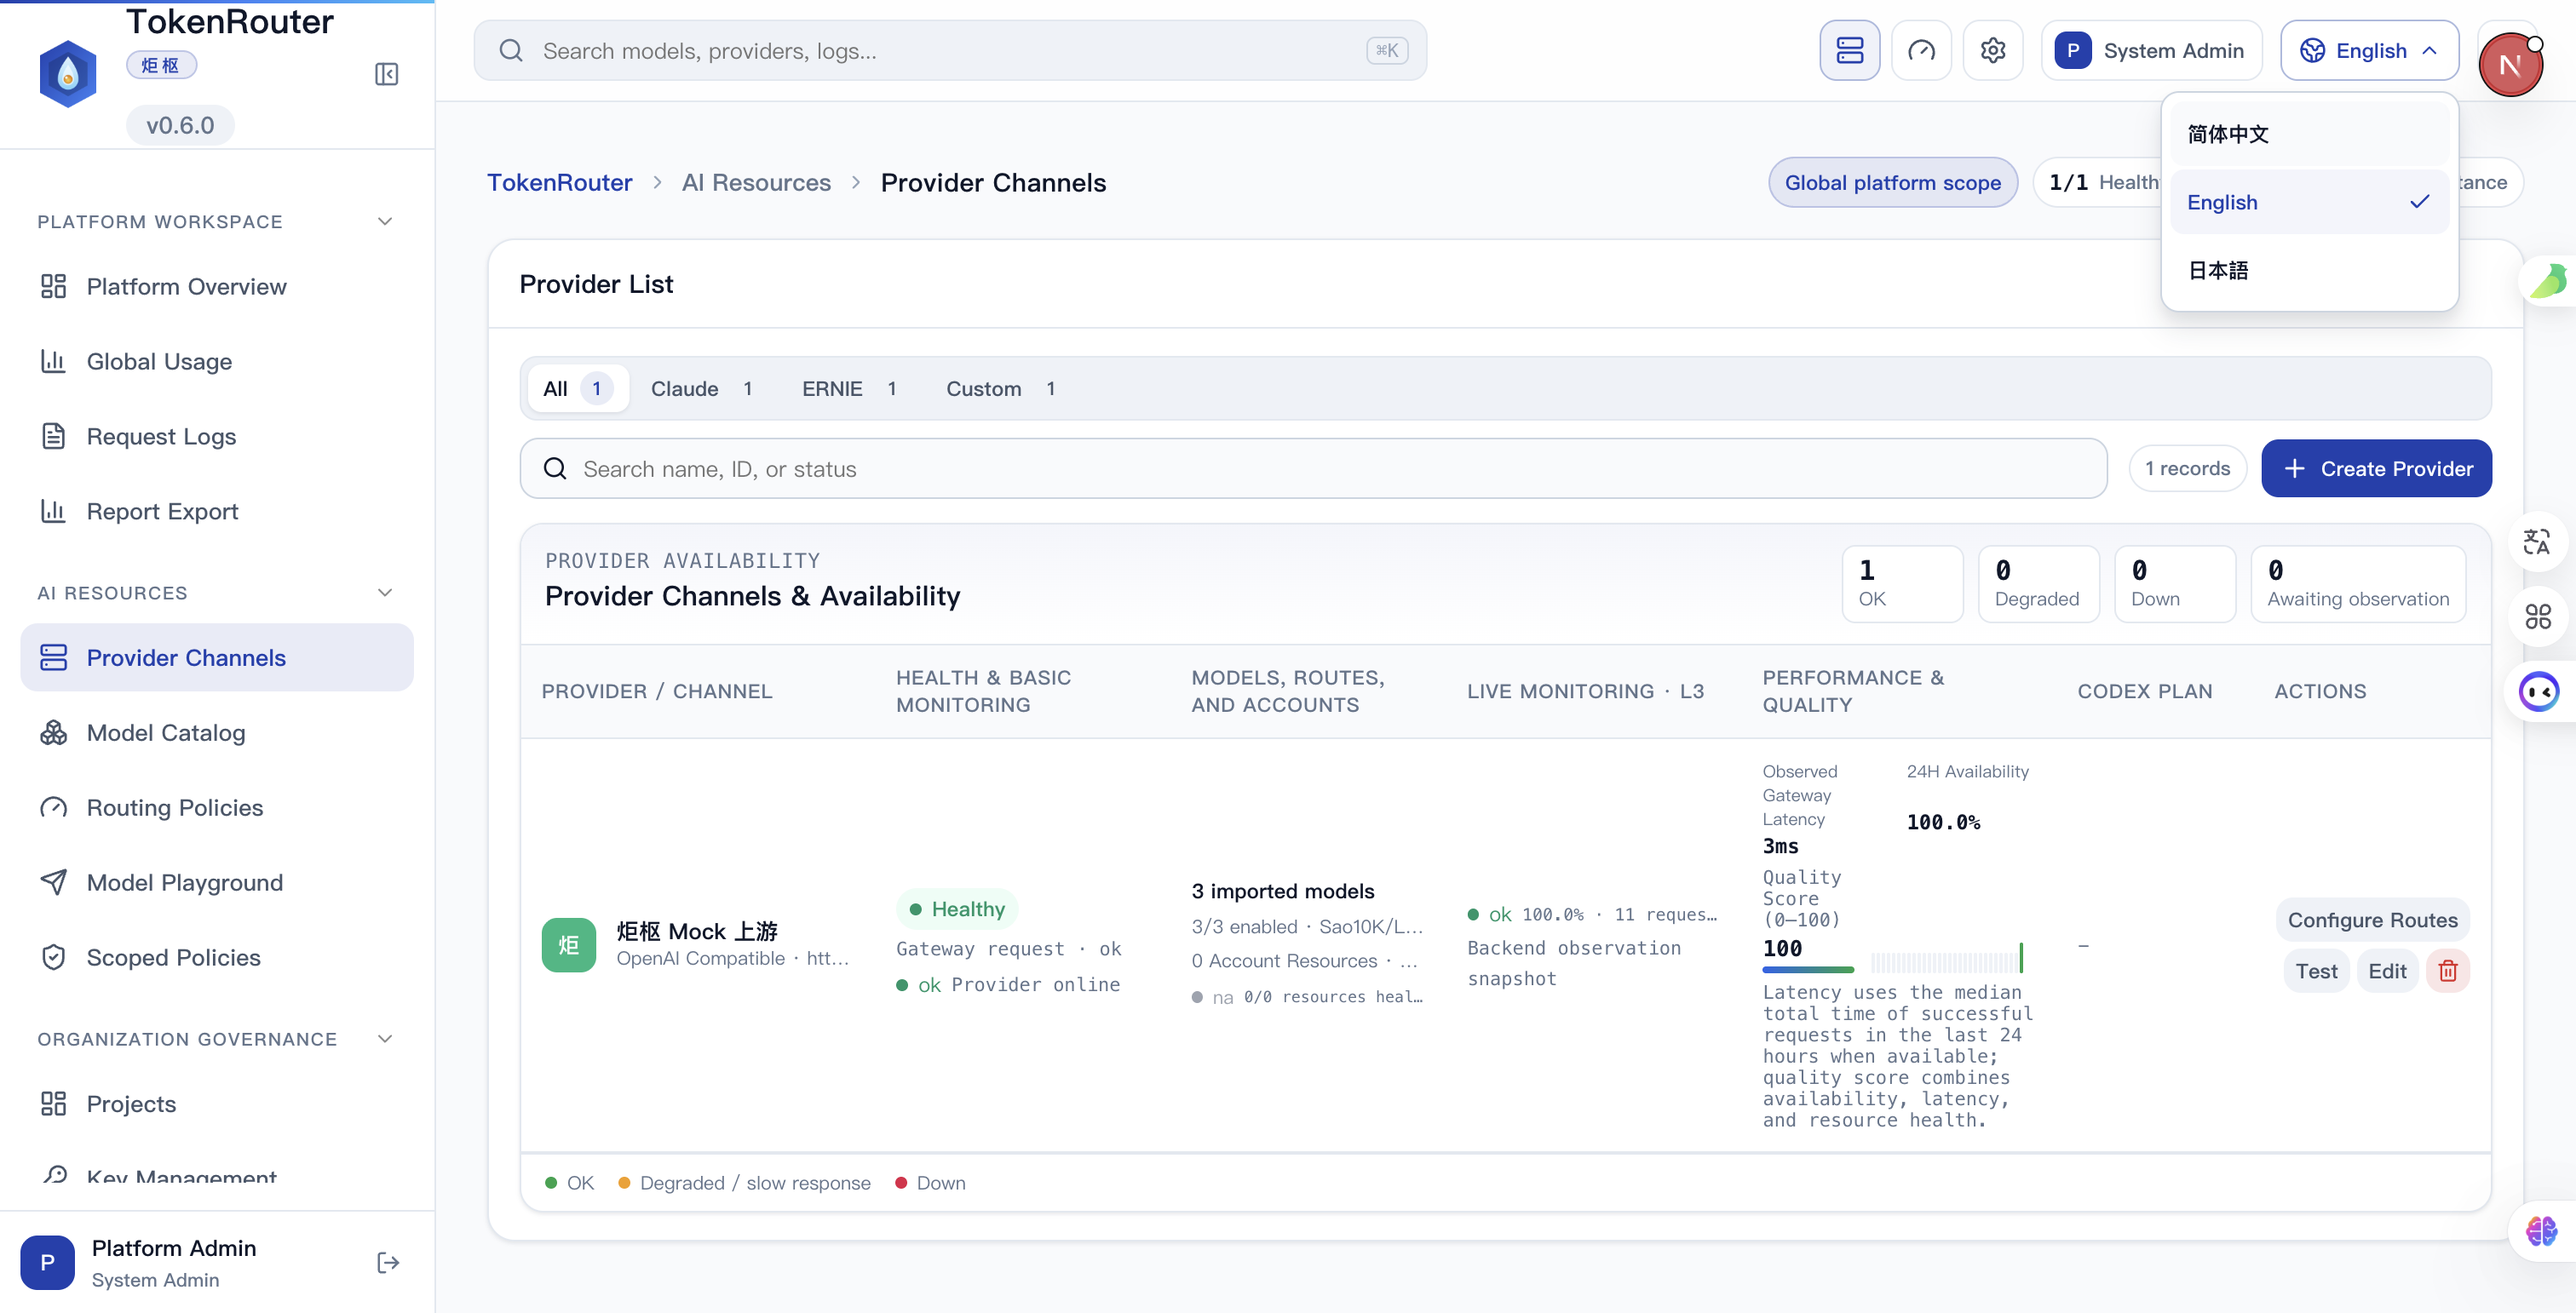
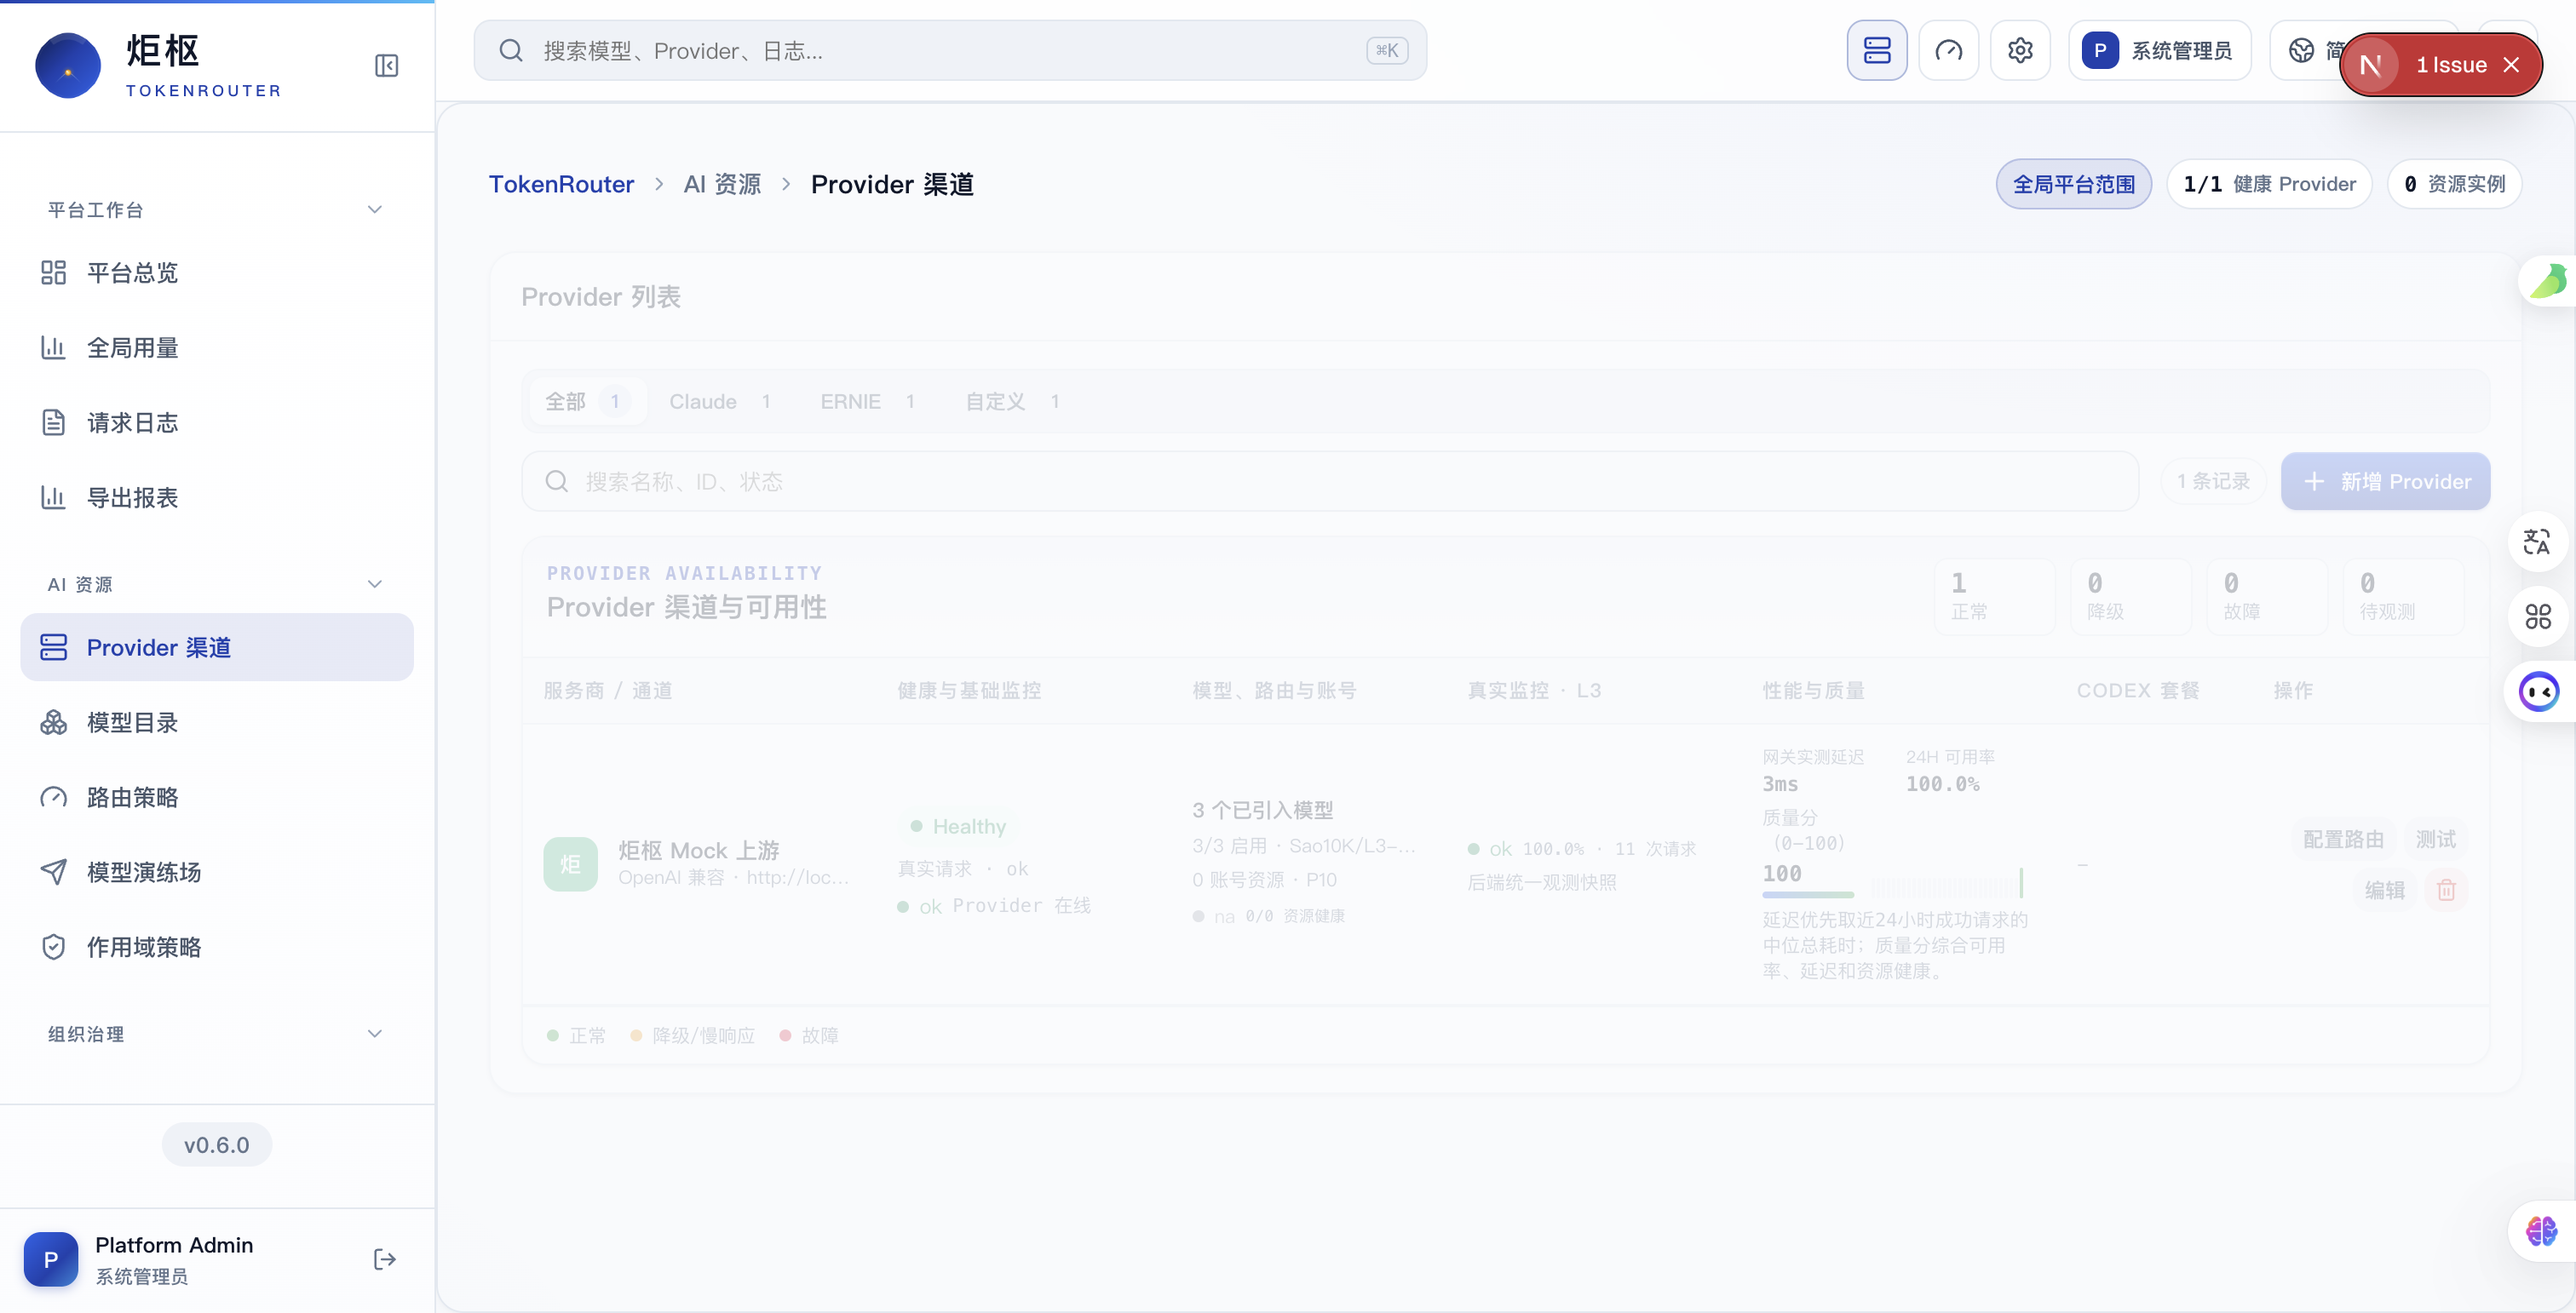
SaaS-style global design language overhaul
- 内容区氛围光：双 radial-gradient 极淡品牌微光（右上蓝/左下青），SaaS 层次感
- 侧边栏：微妙白→灰渐变；分组标题 uppercase 10.5px 宽字距；导航图标 hover/active 品牌蓝过渡
- 按钮：主按钮渐变(#2563EB→#1E40AF)+内高光+品牌阴影+hover 抬升；次按钮圆角+微阴影
- 内容面板：16px 圆角+细边框+分层柔和阴影
- 头像：品牌渐变+投影；眉标统一品牌蓝小字
- 滚动条：9px 细条圆角 background-clip；键盘焦点品牌色光环
- 表格：表头主题化+行 hover 淡蓝；状态胶囊 color-mix 主题化（修 dark 模式硬编码）
- 实测：ambient/渐变/uppercase/16px/渐变按钮全部生效，门禁全绿

diff --git a/frontend/app/styles/redesign/tokenrouter.css b/frontend/app/styles/redesign/tokenrouter.css
@@ -757,3 +757,203 @@
   font-size: 11px;
   color: var(--ink-2);
 }
+
+/* ============================================================
+   SaaS 站点风格全局覆盖（TokenRouter 炬枢）
+   ============================================================ */
+
+/* 1. 内容区氛围光：极淡品牌渐变微光，SaaS 标志性层次 */
+.app-shell {
+  background:
+    radial-gradient(1100px 520px at 88% -8%, rgba(37, 99, 235, 0.05), transparent 62%),
+    radial-gradient(900px 420px at -8% 108%, rgba(14, 165, 233, 0.045), transparent 55%),
+    var(--bg);
+}
+
+/* 2. 侧边栏：微妙渐变 + 精致导航 */
+.sidebar {
+  background: linear-gradient(180deg, var(--surface) 0%, #fbfcfe 100%);
+}
+
+.nav-title {
+  color: var(--ink-3);
+  font-size: 10.5px;
+  font-weight: 720;
+  letter-spacing: 0.09em;
+  text-transform: uppercase;
+  min-height: 28px;
+  padding: 8px 16px 2px;
+}
+
+.nav-title:hover {
+  background: transparent;
+  color: var(--ink-2);
+}
+
+.nav-title .nav-chevron {
+  color: var(--ink-4);
+}
+
+.nav-item svg,
+.nav-child svg {
+  color: var(--ink-3);
+  transition: color 150ms ease;
+}
+
+.nav-item:hover svg,
+.nav-child:hover svg {
+  color: var(--ink-2);
+}
+
+.nav-item.active svg,
+.nav-item.active-parent > svg,
+.nav-child.active svg {
+  color: var(--accent);
+}
+
+.nav-item.active {
+  color: var(--accent);
+}
+
+.sidebar-account {
+  border-top-color: var(--border);
+  padding: 12px 14px 14px;
+}
+
+.account-avatar {
+  background: linear-gradient(135deg, #2563eb 0%, #1e40af 60%, #38bdf8 130%);
+  box-shadow: 0 2px 6px rgba(30, 64, 175, 0.28);
+  font-weight: 700;
+}
+
+.account-meta strong {
+  font-size: 12.5px;
+}
+
+/* 3. 按钮系统：渐变主按钮 + 柔和次按钮 */
+.button {
+  border-radius: 9px;
+  background: linear-gradient(180deg, #2563eb 0%, #1e40af 100%);
+  box-shadow:
+    0 1px 2px rgba(30, 64, 175, 0.32),
+    inset 0 1px 0 rgba(255, 255, 255, 0.16);
+  font-weight: 650;
+  letter-spacing: 0.01em;
+  transition:
+    transform 150ms ease,
+    box-shadow 150ms ease,
+    filter 150ms ease;
+}
+
+.button:hover {
+  transform: translateY(-1px);
+  box-shadow:
+    0 5px 14px rgba(30, 64, 175, 0.28),
+    inset 0 1px 0 rgba(255, 255, 255, 0.16);
+  filter: brightness(1.04);
+}
+
+.button:active {
+  transform: translateY(0);
+  filter: brightness(0.96);
+}
+
+.secondary-button {
+  border-radius: 9px;
+  box-shadow: 0 1px 2px rgba(15, 23, 42, 0.05);
+  transition:
+    border-color 150ms ease,
+    background 150ms ease,
+    transform 150ms ease;
+}
+
+.secondary-button:hover {
+  transform: translateY(-1px);
+}
+
+/* 4. 内容面板：16px 圆角 + 柔和分层阴影 */
+.content-panel {
+  border-radius: 16px;
+  border: 1px solid var(--border);
+  box-shadow:
+    0 1px 2px rgba(15, 23, 42, 0.03),
+    0 12px 32px -18px rgba(15, 23, 42, 0.1);
+}
+
+/* 5. 眉标：品牌蓝小字 */
+.eyebrow {
+  color: var(--accent);
+  font-size: 11px;
+  font-weight: 740;
+  letter-spacing: 0.1em;
+  text-transform: uppercase;
+}
+
+/* 6. 滚动条：细条圆角（SaaS 质感细节） */
+*::-webkit-scrollbar {
+  width: 9px;
+  height: 9px;
+}
+
+*::-webkit-scrollbar-track {
+  background: transparent;
+}
+
+*::-webkit-scrollbar-thumb {
+  background: var(--border-2);
+  border-radius: 8px;
+  border: 2.5px solid transparent;
+  background-clip: padding-box;
+}
+
+*::-webkit-scrollbar-thumb:hover {
+  background: var(--border-strong);
+  border: 2.5px solid transparent;
+  background-clip: padding-box;
+}
+
+*::-webkit-scrollbar-corner {
+  background: transparent;
+}
+
+/* 7. 键盘焦点：品牌色光环 */
+:focus-visible {
+  outline: 2px solid var(--accent);
+  outline-offset: 2px;
+  border-radius: 5px;
+}
+
+/* 8. 表格：表头主题化 + 行 hover */
+table th {
+  color: var(--ink-3);
+  letter-spacing: 0.06em;
+}
+
+table tbody tr {
+  transition: background 120ms ease;
+}
+
+table tbody tr:hover {
+  background: var(--accent-weak-2);
+}
+
+/* 9. 状态胶囊：主题化（浅色硬编码 → color-mix） */
+.pill {
+  font-weight: 650;
+  letter-spacing: 0.02em;
+}
+
+.pill.ok {
+  background: color-mix(in srgb, var(--pos) 13%, var(--surface));
+  color: var(--pos);
+}
+
+.pill.warn {
+  background: color-mix(in srgb, var(--warn) 15%, var(--surface));
+  color: var(--warn);
+}
+
+.pill.error {
+  background: color-mix(in srgb, var(--red) 11%, var(--surface));
+  color: var(--red);
+}
